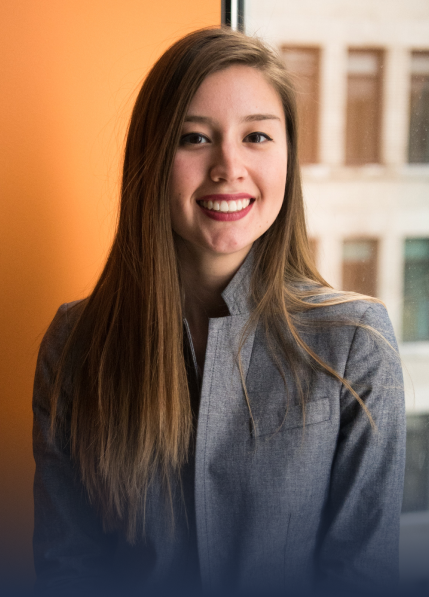
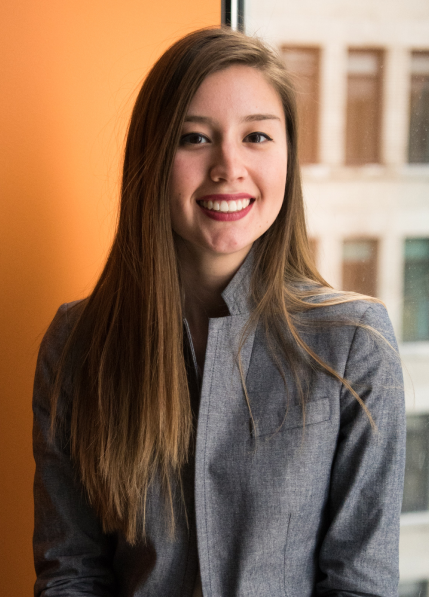
expert section done

Changed region(s): [[0.0, 0.7538, 1.0, 1.0]]

diff --git a/css/style.css b/css/style.css
@@ -1658,32 +1658,35 @@ body .need-help-section {
   width: 2.8rem;
 }
 .pc-get-assessed-sec .slick-prev:before,
-.pc-get-assessed-sec .slick-next:before {
+.pc-get-assessed-sec .slick-next:before,.about-experts .slick-prev:before,
+.about-experts .slick-next:before {
   content: "";
   width: 4rem;
   height: 4rem;
   border-radius: 50%;
   display: block;
+
 }
-.pc-get-assessed-sec .slick-prev:before {
+.pc-get-assessed-sec .slick-prev:before{
   background: url(../images/conditions/slide-prev.png) no-repeat center !important;
   background-size: contain;
 }
 
-.pc-get-assessed-sec .slick-next:before {
+.pc-get-assessed-sec .slick-next:before,.about-experts .slick-next:before {
   background: url(../images/conditions/slide-next.png) no-repeat center !important ;
   background-size: contain;
 }
-.pc-get-assessed-sec .slick-next {
+.pc-get-assessed-sec .slick-next,.about-experts .slick-next {
   right: 10rem;
   left: auto;
 }
-.pc-get-assessed-sec .slick-prev {
+.pc-get-assessed-sec .slick-prev,.about-experts .slick-prev {
   right: 16rem;
   left: auto;
 }
 .pc-get-assessed-sec .slick-next,
-.pc-get-assessed-sec .slick-prev {
+.pc-get-assessed-sec .slick-prev,.about-experts .slick-next,
+.about-experts .slick-prev  {
   top: -10rem;
 }
 .pc-get-assessed-sec .slick-slide:nth-child(2n + 1) {
@@ -3174,7 +3177,60 @@ select:focus {
   padding: 1.3rem 3.2rem;
   margin-top: 3.5rem;
 }
-
+.experts-section{
+  background:linear-gradient(#FFF7EA 60%, #ffffff 40%) ;
+}
+.experts-section .title-box:before{
+  content: "";
+  display: block;
+  background: url(../images/doc-top-ellipse.png) no-repeat center;
+  background-size: contain;
+  width: 21%;
+    height: 33%;
+    position: absolute;
+    top: -20%;
+    left: -18%;
+    transform: rotate(-90deg);
+}
+.experts-section .about-experts .img-container::after{
+content: "";
+width: 100%;
+height: 90%;
+position: absolute;
+bottom: 0;
+left: -0;
+background: linear-gradient(180deg, #222e4600 68.31%, #222E46 100%);
+z-index: 0;
+}
+.experts-section .about-experts .info{
+  position: absolute;
+  bottom: 10%;
+  left:12% ;
+  right:4%;
+  z-index: 1;
+}
+.experts-section .info p{
+  font-size: 1.4rem;
+  letter-spacing: -.04rem;
+  margin-top: .5rem;
+}
+.experts-section .about-experts .slick-slide{
+  margin-right: 2.5rem;
+}
+.about-experts .slick-prev:before {
+  background: url(../images/career-page/how-can-prev.png) no-repeat center !important;
+  background-size: contain;
+}
+.about-experts .slick-prev:before,
+.about-experts .slick-next:before{
+opacity: 1;
+}
+.about-experts .slick-next, .about-experts .slick-prev{
+  top: -40%;
+}
+.about-experts .slick-prev{
+  right: 19%;
+}
 .about-testimonial .img-container img {
   width: 100%;
   border-radius: 0 0 0 5rem;

diff --git a/about.html b/about.html
@@ -174,6 +174,54 @@
         </div>
       </div>
     </section>
+    <section class="experts-section">
+<div class="container">
+  <div class="com-padding w-85 m-w-100 m-auto">
+    <div class="title-box p-relative m-text-center">
+      <p class="header-small-text">Meet The Team</p>
+      <h2 class="">Experts On Board</h2>
+      <p class="text text-justify w-6 m-w-100">
+        The experience of Autism is not one thing. It is many things. It’s dreams, talents, relationships, victories, hurdles, and everything in between.
+      </p>
+    </div>
+    <ul class="about-experts flex-box mt-5rem">
+      <li>
+        <div class="img-container p-relative">
+          <img src="images/about/expart-2.png" alt="" class="w-100">
+          <div class="info text-white">
+            <h3>Kivetta</h3>
+            <p class="light-weight">Early intervention can take different forms, from home visiting programmes to supports...</p>
+          </div>
+        </div>
+      </li>
+      <li>
+        <div class="img-container p-relative">
+          <img src="images/about/expart-1.png" alt="" class="w-100">
+          <div class="info text-white">
+            <h3>Coach Kenny G.</h3>
+          </div>
+        </div>
+      </li>
+      <li>
+        <div class="img-container p-relative">
+          <img src="images/about/expart-3.png" alt="" class="w-100">
+          <div class="info text-white">
+            <h3>Dr. Yasin</h3>
+          </div>
+        </div>
+      </li>
+      <li>
+        <div class="img-container p-relative">
+          <img src="images/about/expart-1.png" alt="" class="w-100">
+          <div class="info text-white">
+            <h3>Ashley</h3>
+          </div>
+        </div>
+      </li>
+    </ul>
+  </div>
+</div>
+    </section>
     <section class="about-testimonial testimonial-section">
       <div class="container">
         <div

diff --git a/js/script.js b/js/script.js
@@ -190,3 +190,20 @@ $(".credentials").slick({
     },
   ],
 });
+$(".about-experts").slick({
+  dots: false,
+  infinite: true,
+  autoplay: true,
+  speed: 300,
+  slidesToShow:3,
+  slidesToScroll: 1,
+  responsive: [
+    {
+      breakpoint:768,
+      settings: {
+        slidesToShow: 2,
+        slidesToScroll: 1,
+      },
+    },
+  ],
+});
